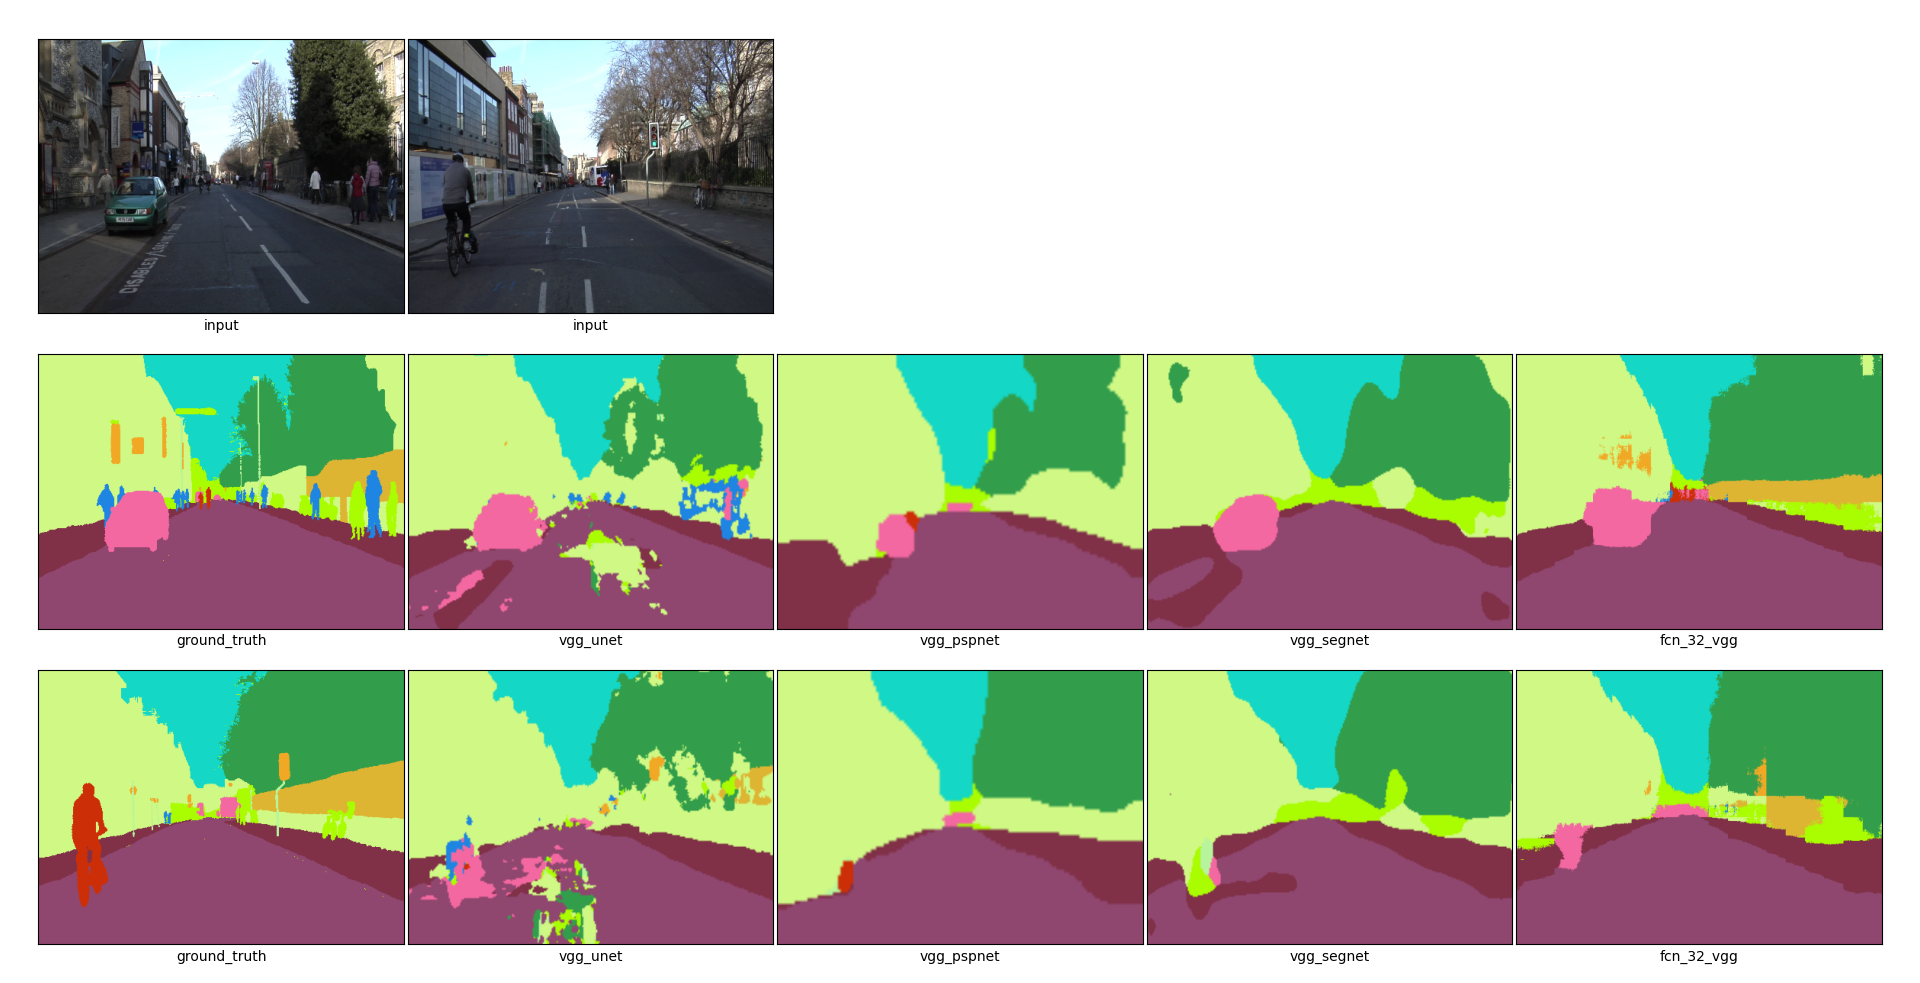
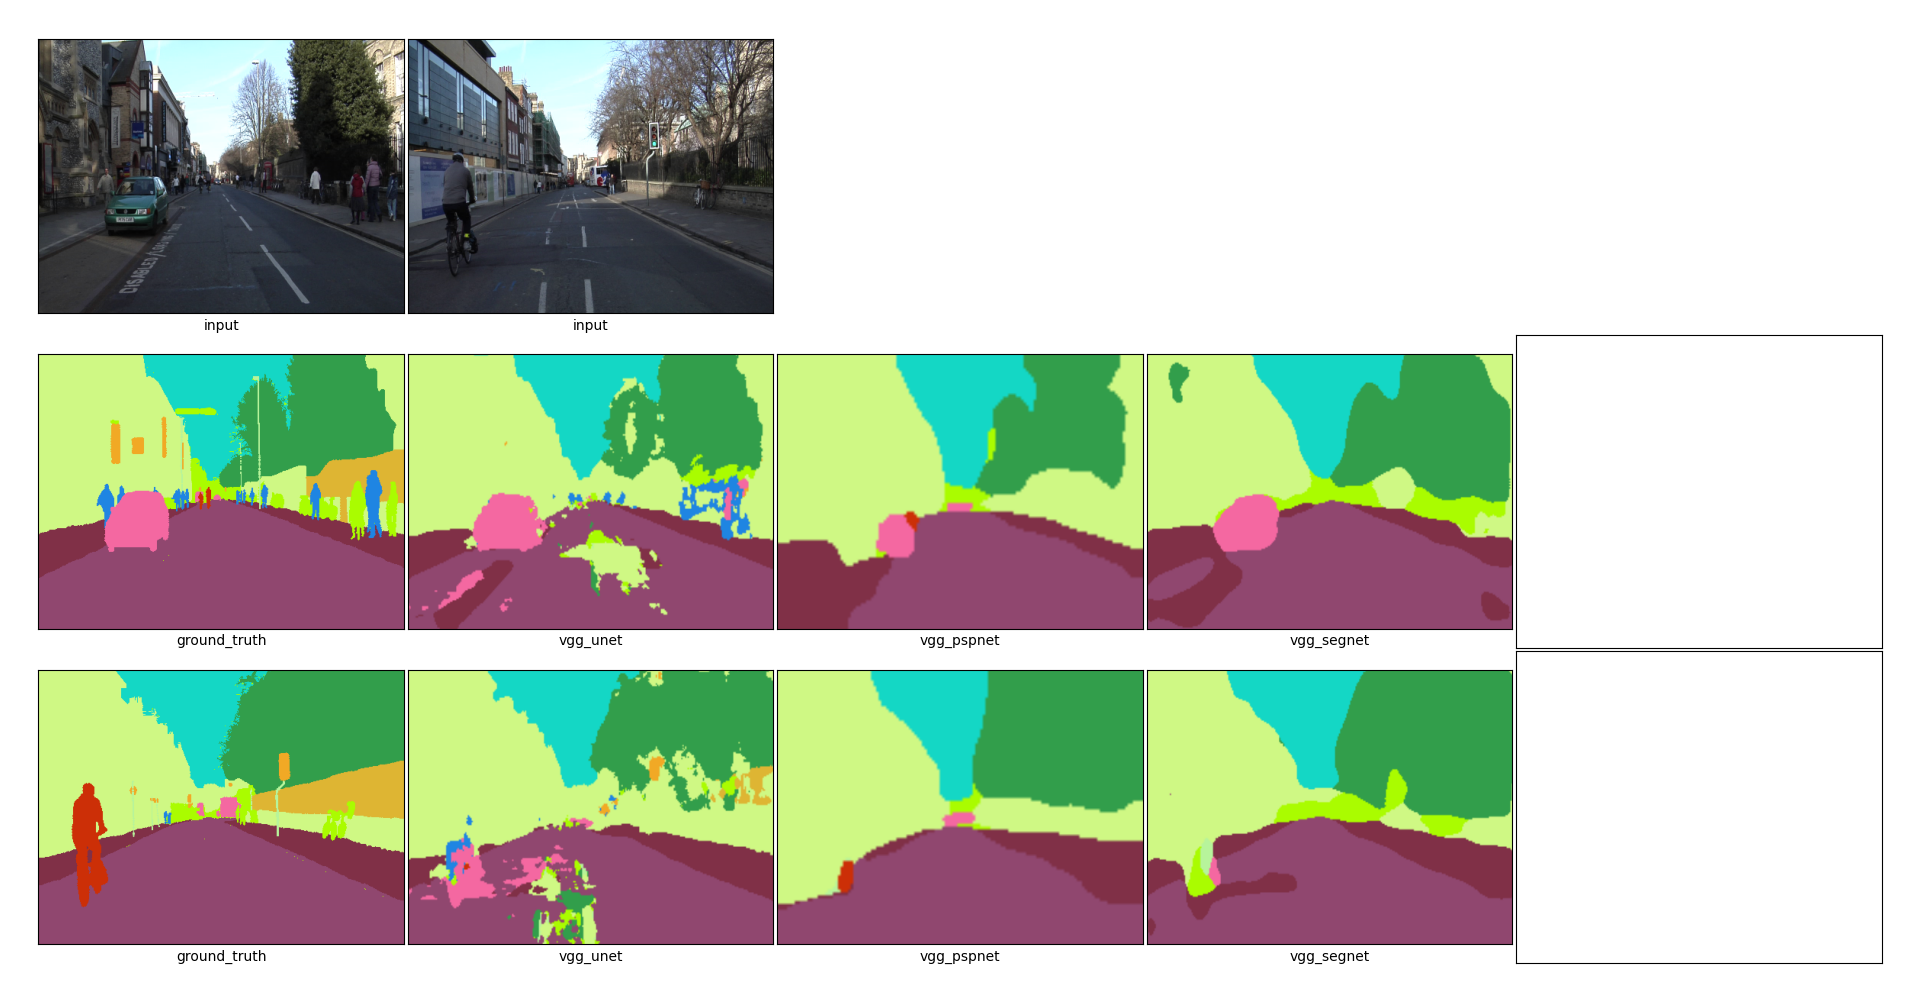
fix

Changed region(s): [[0.7812, 0.3357, 1.0, 0.9766]]

diff --git a/testLoadModel.py b/testLoadModel.py
@@ -1,25 +1,34 @@
-from keras_segmentation.predict import predict_multiple
-from keras_segmentation.predict import evaluate
+from keras_segmentation.predict import predict_multiple, evaluate, model_from_checkpoint_path
+from keras_segmentation.data_utils.visualize_dataset import visualize_segmentation_dataset
+import cv2
+
 checkpoints_path = []
-checkpoints_path.append("./saveModel/vgg_unet_1")
-checkpoints_path.append("./saveModel/vgg_pspnet_1")
-checkpoints_path.append("./saveModel/vgg_segnet_1")
+# checkpoints_path.append("./saveModel/new/vgg_unet_1")
+# checkpoints_path.append("./saveModel/new/vgg_pspnet_1")
+# checkpoints_path.append("./saveModel/new/vgg_segnet_1")
 checkpoints_path.append("./saveModel/fcn_32_vgg_1")
 
 # for ia in checkpoints_path:
 # 	predict_multiple(
 # 		checkpoints_path=ia,
 # 		inp_dir="demo/images_preped_test_small",
-# 		out_dir="demo/output"
+# 		out_dir="demo/output/New"
 # 	)
 
+# view summary
+# for ia in checkpoints_path:
+# 	model = model_from_checkpoint_path(ia)
+# 	print(model.summary())
+
+# visuallize
+# for seg_img, seg_path in visualize_segmentation_dataset(images_path="demo/images_preped_test_small/",segs_path="demo/annotations_preped_test_small/",n_classes=30,no_show=True):
+# 	cv2.imwrite(f"demo/ground_truth/{seg_path.split('/')[-1]}", seg_img)
 
 
-
-for ia in checkpoints_path:
-	output = evaluate(
-		checkpoints_path=ia,
-		inp_images_dir="dataset1/images_prepped_test/",
-		annotations_dir = "dataset1/annotations_prepped_test/",
-	)
-	print(output)
+# for ia in checkpoints_path:
+# 	output = evaluate(
+# 		checkpoints_path=ia,
+# 		inp_images_dir="dataset1/images_prepped_test/",
+# 		annotations_dir = "dataset1/annotations_prepped_test/",
+# 	)
+# 	print(output)

diff --git a/test2.py b/test2.py
@@ -3,9 +3,10 @@ import matplotlib.pyplot as plt
 from PIL import Image
 from os import listdir
 listName = ['0016E5_07530','0016E5_08159']
-listNameNet = ['vgg_unet','vgg_pspnet','vgg_segnet','fcn_32_vgg']
+# listNameNet = ['vgg_unet','vgg_pspnet','vgg_segnet','fcn_32_vgg']
+listNameNet = ['vgg_unet','vgg_pspnet','vgg_segnet']
 ground_truth = "demo/ground_truth"
-pre_dict = "demo/output"
+pre_dict = "demo/output/New"
 in_img = "demo/images_preped_test_small"
 
 # fig=plt.figure(figsize=(16,5))
@@ -18,9 +19,9 @@ for ia in range(3):
         axes[ia,ib].set_yticks([])
 
 axes[0,0].imshow(Image.open(f"{in_img}/{listName[0]}.png"))
-axes[0,0].set_xlabel("input")
+axes[0,0].set_xlabel("in_train_dataset")
 axes[0,1].imshow(Image.open(f"{in_img}/{listName[1]}.png"))
-axes[0,1].set_xlabel("input")
+axes[0,1].set_xlabel("in_test_dataset")
 for ia in range(2,5):
     axes[0,ia].axis('off')
 
@@ -31,11 +32,11 @@ axes[2,0].set_xlabel("ground_truth")
 
 for ia in listdir(pre_dict):
     if listName[0] in ia:
-        for ib in range(1,5):
+        for ib in range(1,4):
             axes[1,ib].imshow(Image.open(f"{pre_dict}/{listName[0]}_{listNameNet[ib-1]}_1.png"))
             axes[1,ib].set_xlabel(listNameNet[ib-1])
     elif listName[1] in ia:
-        for ib in range(1,5):
+        for ib in range(1,4):
             axes[2,ib].imshow(Image.open(f"{pre_dict}/{listName[1]}_{listNameNet[ib-1]}_1.png"))
             axes[2,ib].set_xlabel(listNameNet[ib-1])
     

diff --git a/keras_segmentation/data_utils/visualize_dataset.py b/keras_segmentation/data_utils/visualize_dataset.py
@@ -42,7 +42,7 @@ def visualize_segmentation_dataset(images_path, segs_path, n_classes,
 
         # Get the colors for the classes
         colors = class_colors
-
+        listSeg_img = []
         print("Please press any key to display the next image")
         for im_fn, seg_fn in img_seg_pairs:
             img = cv2.imread(im_fn)
@@ -53,10 +53,14 @@ def visualize_segmentation_dataset(images_path, segs_path, n_classes,
                                                     img, seg, colors,
                                                     n_classes,
                                                     do_augment=do_augment)
-            print("Please press any key to display the next image")
-            cv2.imshow("img", img)
-            cv2.imshow("seg_img", seg_img)
-            cv2.waitKey()
+            if not no_show:
+                print("Please press any key to display the next image")
+                cv2.imshow("img", img)
+                cv2.imshow("seg_img", seg_img)
+                cv2.waitKey()
+            else:
+                listSeg_img.append((seg_img, seg_fn))
+        return listSeg_img
     except DataLoaderError as e:
         print("Found error during data loading\n{0}".format(str(e)))
         return False

diff --git a/test.py b/test.py
@@ -5,14 +5,14 @@ from keras_segmentation.models.all_models import model_from_name
 model_name = []
 model = []
 # model_name.append("vgg_unet")
-model_name.append("vgg_pspnet")
+# model_name.append("vgg_pspnet")
 # model_name.append("vgg_segnet")
-# model_name.append("fcn_32_vgg")
+model_name.append("fcn_32_vgg")
 checkpoints_path = []
 # checkpoints_path.append("./saveModel/vgg_unet_1")
-checkpoints_path.append("./saveModel/vgg_pspnet_1")
+# checkpoints_path.append("./saveModel/vgg_pspnet_1")
 # checkpoints_path.append("./saveModel/vgg_segnet_1")
-# checkpoints_path.append("./saveModel/fcn_32_vgg_1")
+checkpoints_path.append("./saveModel/fcn_32_vgg_1")
 
 for ia in model_name:
     model.append(model_from_name[ia](n_classes=30 ,  input_height=384, input_width=576))
@@ -21,7 +21,7 @@ for ib,ia in enumerate(model):
     ia.train(
         batch_size = 5,
         epochs= 10,
-        steps_per_epoch = 367 // 5,
+        # steps_per_epoch = 367 // 5,
         train_images =  "dataset1/images_prepped_train/",
         train_annotations = "dataset1/annotations_prepped_train/",
         checkpoints_path = checkpoints_path[ib] 
